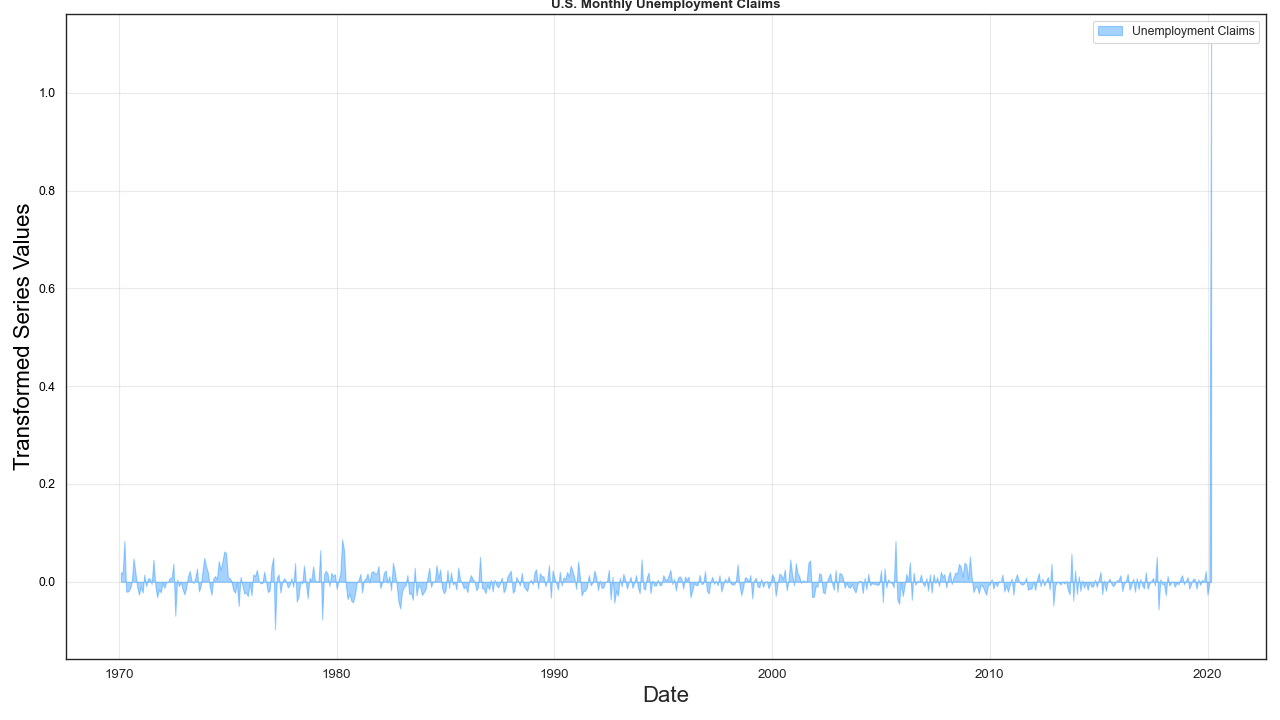
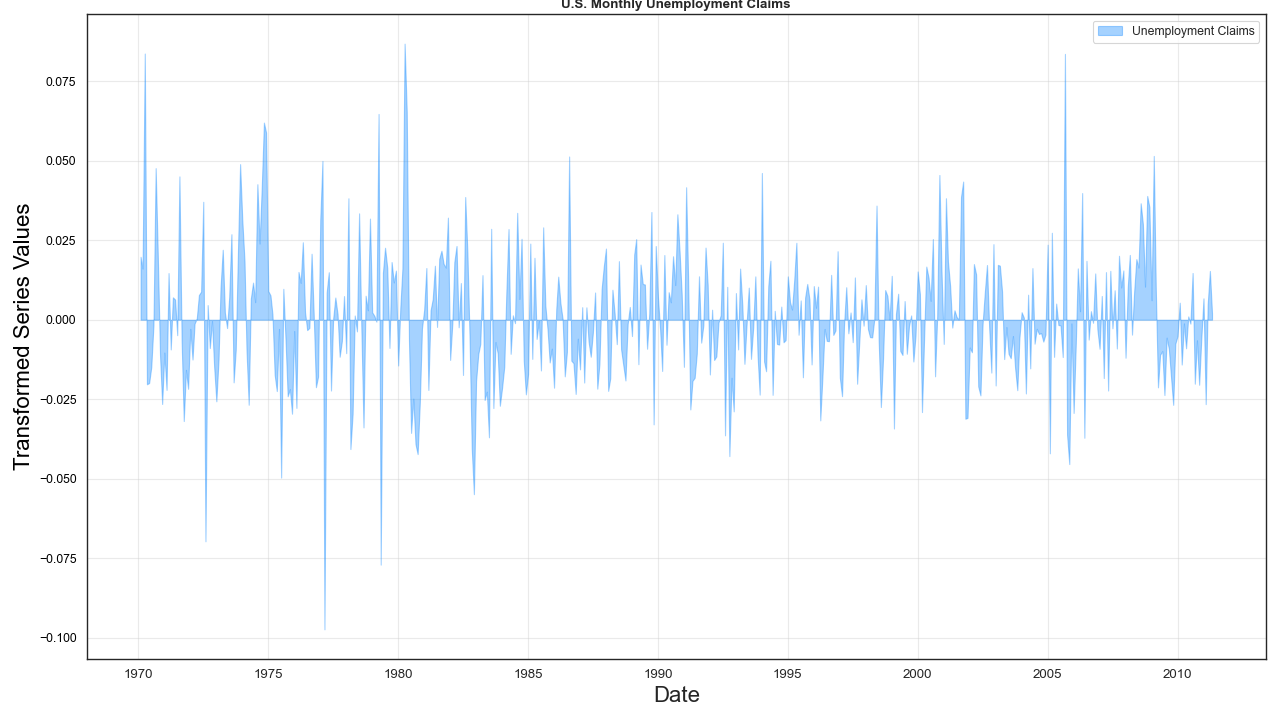
wip

diff --git a/src/models/train_model.py b/src/models/train_model.py
@@ -307,7 +307,7 @@ class ClassicalModels():
         df_error = pd.DataFrame(self.error_metrics_AR.items())
         
         fig, ax1 = plt.subplots(1,1, figsize=(16,9), dpi= 80)
-        plt.scatter(df_error.iloc[:, 0], df_error.iloc[:, 1], color='blue', s=10)
+        plt.scatter(df_error.iloc[:, 0], df_error.iloc[:, 1], color='blue', s=30)
         # Decorations
         ax1.set_xlabel('Lag', fontsize=20)
         ax1.tick_params(axis='x', rotation=0, labelsize=12)
@@ -327,7 +327,7 @@ class ClassicalModels():
         df_error = pd.DataFrame(self.error_metrics_Markov.items())
         
         fig, ax1 = plt.subplots(1,1, figsize=(16,9), dpi= 80)
-        plt.scatter(df_error.iloc[:, 0], df_error.iloc[:, 1], color='blue', s=10)
+        plt.scatter(df_error.iloc[:, 0], df_error.iloc[:, 1], color='blue', s=30)
         
         # Decorations
         ax1.set_xlabel('Lag', fontsize=20)

diff --git a/src/data/build_features.py b/src/data/build_features.py
@@ -170,9 +170,10 @@ class DatasetMaker():
     def plot_y_var(self):
 
         '''plotting dependent variable visually post and pre-transform'''
-        df = self.transformed_df.copy()
+        nobs = np.round(0.825*self.transformed_df.shape[0], 0)
+        df = self.transformed_df.copy().iloc[0:int(nobs), :]
         # graph
-        x =self.transformed_df.sasdate
+        x =df.sasdate
         
         fig, ax1 = plt.subplots(1,1, figsize=(16,9), dpi= 80)
 
